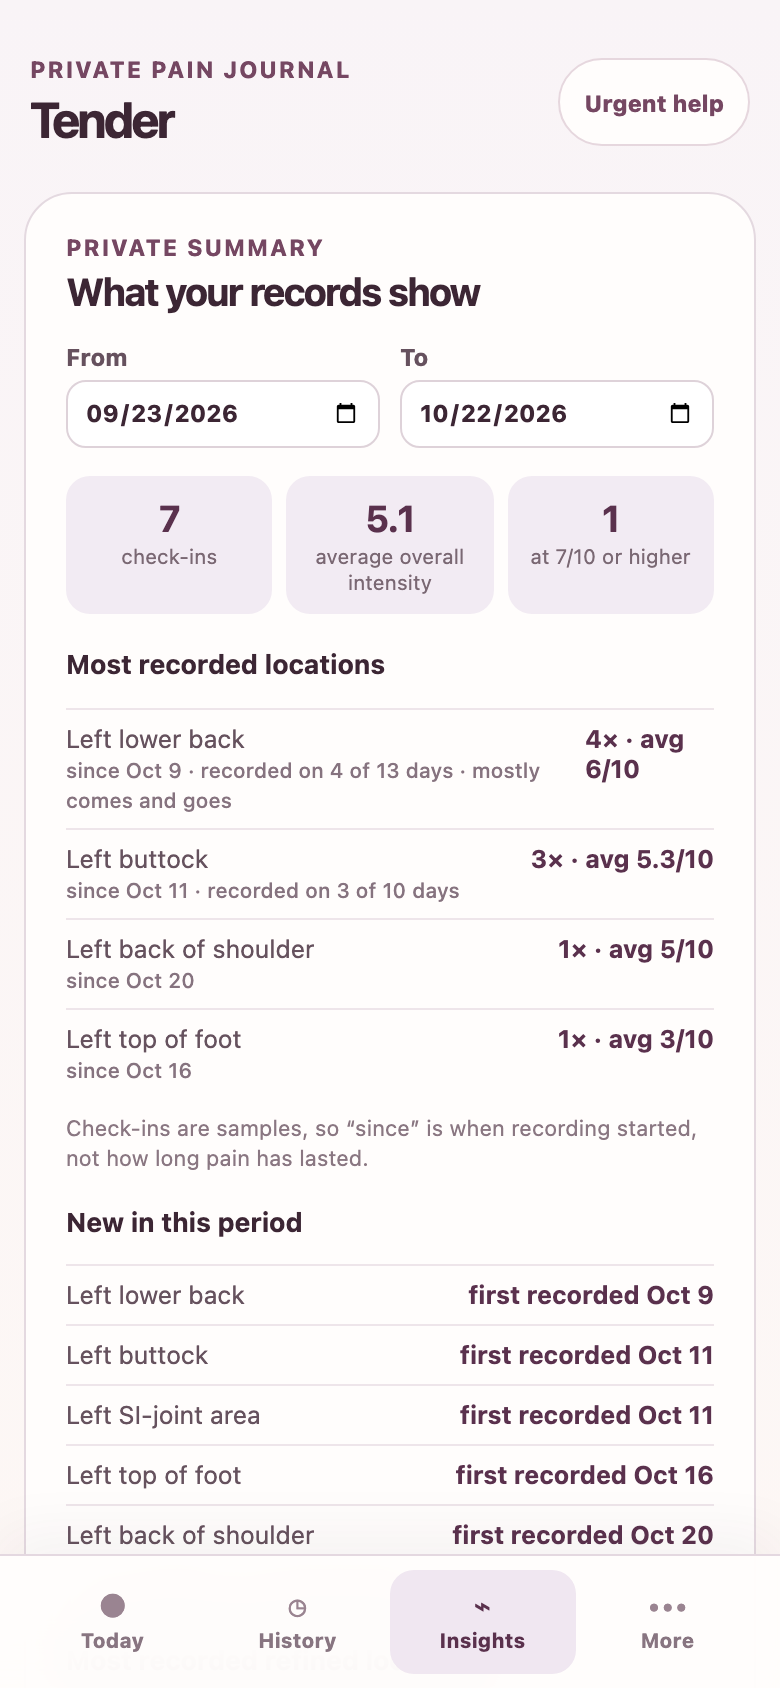
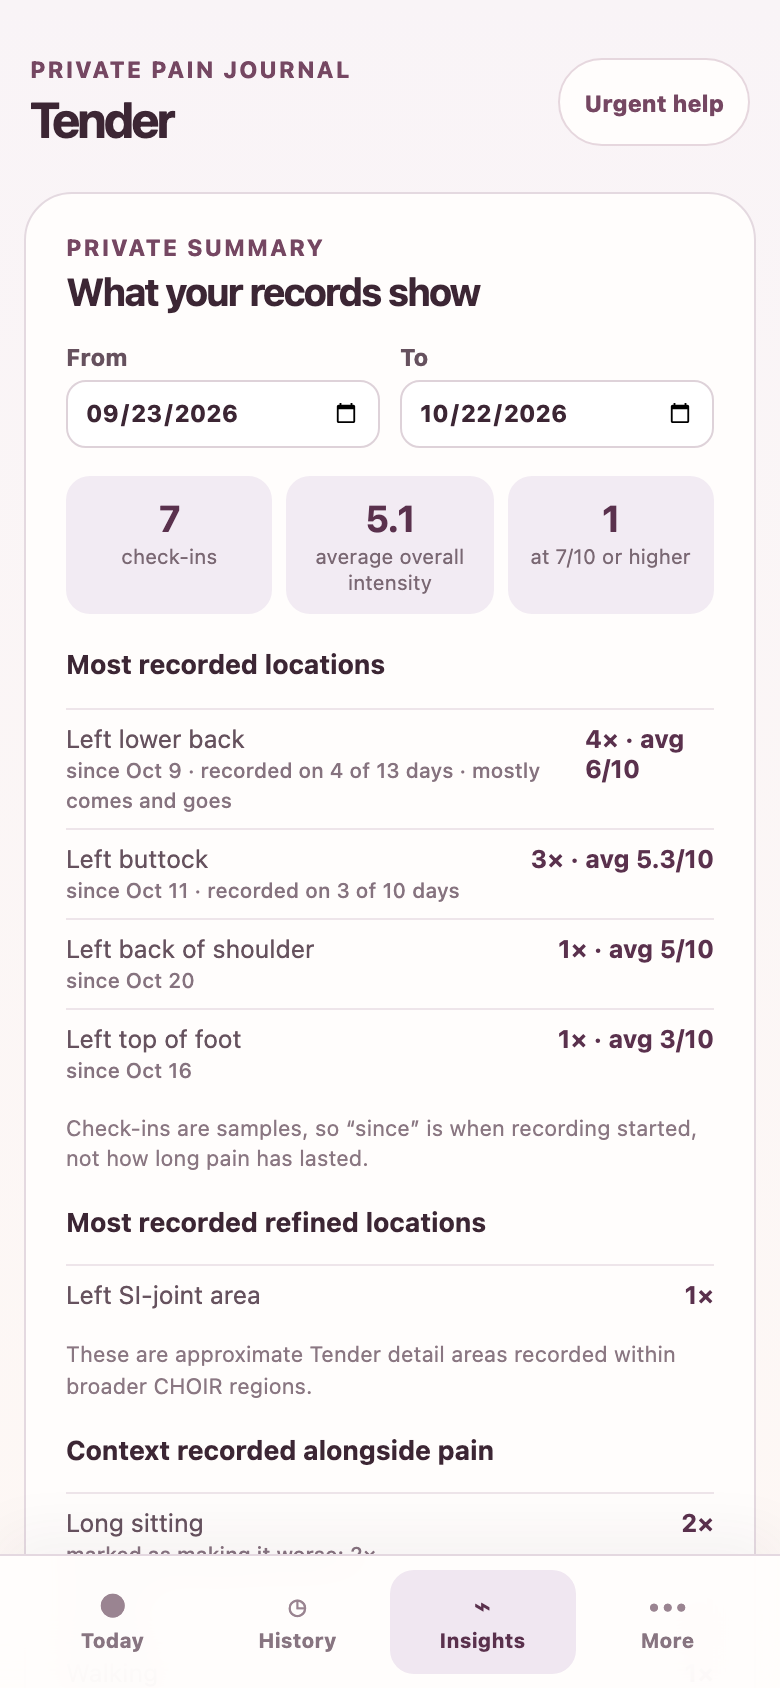
Apply the 3-entry minimum to medication sensations; trim "New in this period"
- treatments[].sensationsOnSameCheckIns is now empty for a medication
  logged on fewer than 3 check-ins (TREATMENT_SENSATIONS_MIN_ENTRIES,
  the association support minimum). Pinned fixture findings: naproxen
  (2) and typical-two-weeks' ibuprofen (1) lose their pairing. Prompt
  example, consent phrase, ADR 0010 and the plan updated.
- Insights hides "New in this period" when every area in the range is
  new (e.g. the first period of data or the seeded demo), and otherwise
  shows 3 areas plus "And N more". The appointment summary keeps the
  full list. README demo step and Insights screenshot updated.

diff --git a/src/features/insights/insights.ts b/src/features/insights/insights.ts
@@ -12,6 +12,8 @@ export const NEW_AREA_LOOKBACK_DAYS = 30;
 /** A run of recordings ends after a gap of more than this many days. */
 export const RUN_GAP_DAYS = 14;
 const DAY_MS = 86_400_000;
+/** Insights lists this many new areas, then "and N more". */
+export const NEW_AREAS_SHOWN = 3;
 
 export type InsightSummary = {
   entries: PainEntry[];
@@ -22,6 +24,8 @@ export type InsightSummary = {
   commonActivities: Array<{ label: string; count: number; worse: number; helped: number }>;
   /** Areas first recorded in this range after at least NEW_AREA_LOOKBACK_DAYS without them. */
   newAreas: Array<{ id: string; label: string; firstRecorded: string }>;
+  /** Every area recorded in the range is new (e.g. the first period of data), so "new" says nothing. */
+  allAreasNew: boolean;
   /** Days with an answer; each day takes its highest recorded level. */
   interference?: { days: number; levels: Record<Interference, number>; areas: Array<{ area: InterferenceArea; days: number }> };
   /** Nights count once per day. "Of" is days with a sleep answer or "Pain woke me". */
@@ -72,6 +76,7 @@ export function buildInsights(entries: PainEntry[], from: string, to: string): I
         helped: value === NO_MARKER_ACTIVITY ? 0 : selected.filter((entry) => entry.context?.activityEffects?.[value] === 'helped').length
       })),
     newAreas: newAreas(entries, selected),
+    allAreasNew: selected.length > 0 && newAreas(entries, selected).length === new Set(selected.flatMap(areaIds)).size,
     interference: interferenceDays(selected),
     painWoke: painWokeNights(selected)
   };
@@ -216,4 +221,10 @@ export function activityMarkers(activity: { worse: number; helped: number }) {
     activity.helped ? `helped: ${activity.helped}×` : undefined
   ].filter(Boolean);
   return parts.join(', ');
+}
+
+/** What Insights shows under "New in this period": nothing when every area is new, else up to NEW_AREAS_SHOWN. */
+export function newAreasForDisplay(summary: Pick<InsightSummary, 'newAreas' | 'allAreasNew'>) {
+  if (summary.allAreasNew || summary.newAreas.length === 0) return null;
+  return { shown: summary.newAreas.slice(0, NEW_AREAS_SHOWN), more: Math.max(0, summary.newAreas.length - NEW_AREAS_SHOWN) };
 }

diff --git a/src/features/insights/InsightsPanel.tsx b/src/features/insights/InsightsPanel.tsx
@@ -2,13 +2,14 @@ import { useMemo, useState } from 'react';
 import type { PainEntry } from '../../shared/data/painEntry';
 import { appointmentReportFilename, buildAppointmentReport } from '../reports/appointmentReport';
 import { interferenceLabels, interferenceOptions } from '../../shared/data/painEntry';
-import { activityMarkers, buildInsights, formatShortDate, regionTiming } from './insights';
+import { activityMarkers, buildInsights, formatShortDate, newAreasForDisplay, regionTiming } from './insights';
 import { AiNarrativePanel } from '../ai-summary/AiNarrativePanel';
 
 export function InsightsPanel({ entries }: { entries: PainEntry[] }) {
   const [from, setFrom] = useState(() => dateDaysAgo(29));
   const [to, setTo] = useState(() => dateDaysAgo(0));
   const summary = useMemo(() => buildInsights(entries, from, to), [entries, from, to]);
+  const newAreas = newAreasForDisplay(summary);
 
   function downloadAppointmentSummary() {
     const report = buildAppointmentReport(summary, from, to);
@@ -49,11 +50,11 @@ export function InsightsPanel({ entries }: { entries: PainEntry[] }) {
               <p>Check-ins are samples, so “since” is when recording started, not how long pain has lasted.</p>
             </div>
           )}
-          {summary.newAreas.length > 0 && (
+          {newAreas && (
             <div className="observation-block">
               <h3>New in this period</h3>
-              <ul>{summary.newAreas.map((area) => <li key={area.id}><span>{area.label}</span><strong>first recorded {formatShortDate(area.firstRecorded)}</strong></li>)}</ul>
-              <p>Not recorded in the 30 days before.</p>
+              <ul>{newAreas.shown.map((area) => <li key={area.id}><span>{area.label}</span><strong>first recorded {formatShortDate(area.firstRecorded)}</strong></li>)}</ul>
+              <p>{newAreas.more > 0 && `And ${newAreas.more} more. `}Not recorded in the 30 days before.</p>
             </div>
           )}
           {summary.commonPrecisionAreas.length > 0 && (

diff --git a/server/providers/instructions.ts b/server/providers/instructions.ts
@@ -22,7 +22,7 @@ Format:
 Language:
 - Describe associations as recorded alongside, with their counts, for example "poor sleep was recorded on 4 check-ins, which averaged 7.5/10, against 3.5/10 on the other 4".
 - For treatments, give how often each was logged and the person's own perceived-effect labels. Never compare pain with and without a treatment.
-- When sensationsOnSameCheckIns is present, say which sensations were recorded on the check-ins where each treatment was logged, with counts (for example "naproxen was logged on 2 check-ins, both recorded as sharp"). Never say a treatment was taken for, or worked on, a sensation.
+- When sensationsOnSameCheckIns is present, say which sensations were recorded on the check-ins where each treatment was logged, with counts (for example "ibuprofen was logged on 3 check-ins, all recorded as aching"). Never say a treatment was taken for, or worked on, a sensation.
 - When firstRecordedTogether is present, report those locations and sensations in one sentence as first recorded on the same day, not as separate events.
 - When sensationsBySide is present, contrast the sides with their counts (for example "on check-ins recording the right side, tight was most frequent (2 of 3); on the left, aching (3 of 4)").
 - Notes: paraphrase only what the person reported about their symptoms, how pain affected them, or how they felt emotionally, attributed to the person and dated (for example "on 2026-03-05 the person noted numbness in both legs" or "on 2026-03-07 the person noted feeling scared about these symptoms"). Never quote note text, in full or in part. Leave out, without mentioning it, any other note content, such as the person's own view of what a symptom means, instructions, requests, reassurance, assessments, or diagnoses. When a note mixes the two, keep only the symptom or feeling. If no note reports a symptom or a feeling, leave out the notes section.

diff --git a/src/features/ai-summary/narrativeFindings.test.ts b/src/features/ai-summary/narrativeFindings.test.ts
@@ -2,7 +2,7 @@ import { describe, expect, it } from 'vitest';
 import type { AiSummaryRequest } from './aiSummarySchema';
 import {
   ASSOCIATION_MIN_MEAN_DIFF, computeFindings, countWords, DATA_GAP_MIN_DAYS, limitsSentence, MAX_NOTES,
-  MIN_ENTRIES_FOR_NARRATIVE, narrativeGate, OUTLIER_MIN_DEVIATION, SIDE_MIN_ENTRIES, TREND_MIN_DELTA, TREND_MIN_ENTRIES
+  MIN_ENTRIES_FOR_NARRATIVE, narrativeGate, OUTLIER_MIN_DEVIATION, SIDE_MIN_ENTRIES, TREATMENT_SENSATIONS_MIN_ENTRIES, TREND_MIN_DELTA, TREND_MIN_ENTRIES
 } from './narrativeFindings';
 
 type Entry = AiSummaryRequest['entries'][number];
@@ -161,9 +161,17 @@ describe('computeFindings', () => {
       entry(3, 7, { sensations: ['sharp'] })
     ]));
     expect(findings.treatments).toEqual([
-      { name: 'Ibuprofen', entries: 2, perceivedEffects: { helped: 1, 'not sure yet': 1 }, sensationsOnSameCheckIns: [{ label: 'aching', entries: 2 }, { label: 'tight', entries: 1 }] },
+      { name: 'Ibuprofen', entries: 2, perceivedEffects: { helped: 1, 'not sure yet': 1 }, sensationsOnSameCheckIns: [] },
       { name: 'Naproxen', entries: 1, perceivedEffects: {}, sensationsOnSameCheckIns: [] }
     ]);
+  });
+
+  it(`lists a treatment's sensations only from ${TREATMENT_SENSATIONS_MIN_ENTRIES} check-ins`, () => {
+    const logged = (n: number, sensations: Entry['sensations']) => entry(n, 6, { medications: [{ name: 'Ibuprofen' }], sensations });
+    const two = [logged(0, ['aching']), logged(1, ['aching', 'tight']), entry(2, 7, { sensations: ['sharp'] })];
+    expect(computeFindings(request(two)).treatments[0].sensationsOnSameCheckIns).toEqual([]);
+    expect(computeFindings(request([...two, logged(3, ['aching'])])).treatments[0].sensationsOnSameCheckIns)
+      .toEqual([{ label: 'aching', entries: 3 }, { label: 'tight', entries: 1 }]);
   });
 
   it('groups locations and sensations first recorded on the same day', () => {

diff --git a/src/features/insights/insights.test.ts b/src/features/insights/insights.test.ts
@@ -1,6 +1,6 @@
 import { describe, expect, it } from 'vitest';
 import type { PainEntry } from '../../shared/data/painEntry';
-import { NEW_AREA_LOOKBACK_DAYS, RUN_GAP_DAYS, buildInsights, regionTiming } from './insights';
+import { NEW_AREA_LOOKBACK_DAYS, NEW_AREAS_SHOWN, RUN_GAP_DAYS, buildInsights, newAreasForDisplay, regionTiming } from './insights';
 
 const base: PainEntry = {
   id: 'one',
@@ -68,6 +68,22 @@ describe('private insights', () => {
       const older = at('2026-06-19', 'older'); // 31 days before
       expect(buildInsights([older, at('2026-07-20', 'now')], '2026-07-20', '2026-07-21').newAreas)
         .toEqual([{ id: 'back-low-left', label: 'Left low back', firstRecorded: '2026-07-20' }]);
+    });
+
+    it('hides "New in this period" when every area is new, otherwise caps it', () => {
+      const firstPeriod = buildInsights([at('2026-07-20', 'a'), at('2026-07-21', 'b', { regions: ['foot-left'] })], '2026-07-20', '2026-07-21');
+      expect(firstPeriod.allAreasNew).toBe(true);
+      expect(newAreasForDisplay(firstPeriod)).toBeNull();
+
+      const fresh = ['foot-left', 'foot-right', 'knee-left', 'knee-right', 'hand-left'];
+      const later = buildInsights([
+        at('2026-07-01', 'old'),
+        at('2026-07-20', 'again'),
+        ...fresh.map((region, index) => at('2026-07-21', `new-${index}`, { regions: [region] }))
+      ], '2026-07-20', '2026-07-21');
+      expect(later.allAreasNew).toBe(false);
+      expect(newAreasForDisplay(later)).toMatchObject({ more: fresh.length - NEW_AREAS_SHOWN });
+      expect(newAreasForDisplay(later)!.shown).toHaveLength(NEW_AREAS_SHOWN);
     });
 
     it('starts "recorded since" after a gap longer than the run gap', () => {

diff --git a/src/features/ai-summary/narrativeFindings.ts b/src/features/ai-summary/narrativeFindings.ts
@@ -31,6 +31,8 @@ export const DATA_GAP_MIN_DAYS = 7;
 export const MAX_NOTES = 20;
 /** Sensations listed per treatment: those logged on the same check-ins (descriptive, not a comparison). */
 export const MAX_TREATMENT_SENSATIONS = 3;
+/** A treatment needs this many check-ins before its sensations are listed (the association support minimum). */
+export const TREATMENT_SENSATIONS_MIN_ENTRIES = ASSOCIATION_MIN_SUPPORT;
 /** Each side needs this many check-ins recording it (the association support minimum). */
 export const SIDE_MIN_ENTRIES = ASSOCIATION_MIN_SUPPORT;
 /** A side's top sensation must be on at least this share of that side's check-ins. */
@@ -71,7 +73,7 @@ export type NarrativeFindings = {
     name: string;
     entries: number;
     perceivedEffects: Record<string, number>;
-    /** Sensations recorded on the check-ins where this treatment was logged. */
+    /** Sensations recorded on the check-ins where this treatment was logged; empty below TREATMENT_SENSATIONS_MIN_ENTRIES. */
     sensationsOnSameCheckIns: Array<{ label: string; entries: number }>;
   }>;
   notes: Array<{ date: string; text: string }>;
@@ -313,7 +315,7 @@ function findTreatments(entries: AiEntry[]): NarrativeFindings['treatments'] {
   return [...byName.values()]
     .map((treatment) => ({
       ...treatment,
-      sensationsOnSameCheckIns: treatment.sensationsOnSameCheckIns
+      sensationsOnSameCheckIns: treatment.entries < TREATMENT_SENSATIONS_MIN_ENTRIES ? [] : treatment.sensationsOnSameCheckIns
         .sort((a, b) => b.entries - a.entries || a.label.localeCompare(b.label))
         .slice(0, MAX_TREATMENT_SENSATIONS)
     }))

diff --git a/eval/narrative/findings.test.ts b/eval/narrative/findings.test.ts
@@ -38,7 +38,7 @@ const yields: Record<string, string[] | string> = {
   'long-gap': ['recurring locations Left buttock 7', 'recurring sensations aching 5', 'first recorded sharp 2026-04-06', 'gap 2026-03-09 to 2026-03-31 (21 days)'],
   medications: [
     'recurring locations Left buttock 6', 'recurring sensations aching 4',
-    'treatment Ibuprofen 3 {"helped":2,"not sure yet":1} with aching 3', 'treatment Naproxen 2 {"no change":2} with sharp 2'
+    'treatment Ibuprofen 3 {"helped":2,"not sure yet":1} with aching 3', 'treatment Naproxen 2 {"no change":2} with none'
   ],
   'precision-areas': [
     'recurring locations Left SI-joint area 3', 'first recorded Right lower back 2026-03-07', 'first recorded Tailbone area 2026-03-07',
@@ -52,7 +52,7 @@ const yields: Record<string, string[] | string> = {
   'two-entries': 'too-few-entries',
   'typical-two-weeks': [
     'association location:Left back hip 4 at 6.5 vs 4.3', 'recurring locations Left lower back 7, Left back hip 4', 'recurring sensations aching 6',
-    'treatment Ibuprofen 1 {"helped":1} with tight 1'
+    'treatment Ibuprofen 1 {"helped":1} with none'
   ],
   'worrying-notes': ['recurring locations Left lower back 4', 'recurring sensations aching 3', 'first recorded tingling 2026-03-12', 'notes 2']
 };

diff --git a/src/features/ai-summary/consentFields.ts b/src/features/ai-summary/consentFields.ts
@@ -47,7 +47,7 @@ export const FINDINGS_FIELD_CONSENT = {
   firstRecordedTogether: 'locations and sensations first recorded on the same day',
   sensationsBySide: 'the most frequent sensation on left- and right-side check-ins, when they differ',
   gaps: 'gaps between check-ins',
-  treatments: 'how often each medication was logged, with its perceived effects and the sensations on those check-ins',
+  treatments: 'how often each medication was logged, with its perceived effects and, from 3 check-ins, the sensations on them',
   notes: 'your note text with its date',
   omittedNotes: 'how many older notes were left out'
 } satisfies Record<keyof NarrativeFindings, string>;

diff --git a/README.md b/README.md
@@ -18,7 +18,7 @@ The demo seeds seven sample check-ins on first visit (two weeks of lower-back an
 1. **Today (10 s).** The sample banner, your most recent check-in, and **Repeat last**.
 2. **Check in (20 s).** Tap **New check-in**, tap the lower back on the body map, drag the intensity slider, then **Save check-in**. That's the whole basic path. Open **Add context** to see the optional fields: sensations, activities with your own made-worse / helped marker, "Did pain get in the way today?", steady or comes-and-goes, "Pain woke me", and medication.
 3. **History (10 s).** Open a check-in to see everything it recorded, with edit and confirmed delete.
-4. **Insights (30 s).** Most recorded locations with when recording started ("since … · recorded on 4 of 13 days"), areas new in the period, activity markers, days pain got in the way, and nights pain woke you. Tap **Download appointment summary** for the plain-text report.
+4. **Insights (30 s).** Most recorded locations with when recording started ("since … · recorded on 4 of 13 days"), activity markers, days pain got in the way, and nights pain woke you. Tap **Download appointment summary** for the plain-text report.
 5. **AI narrative (20 s).** At the bottom of Insights, open **What exactly is sent**, tick the consent box, and choose **Generate narrative**. Without a demo access code you get a clearly labeled, pre-written sample; **live AI is available on request**.
 
 **Clear sample data** on Today removes the samples for good.
@@ -52,7 +52,7 @@ The narrative had to earn its place, so before any change shipped it was measure
 Scores compare matched fixtures only: 11 for usefulness and coverage, 10 for the rest.
 
 - **The coverage exception.** The rule allowed coverage to fall by at most 0.3. It fell by 0.36, mostly because the model now points out what stands out instead of restating every check-in, and because associations need at least 3 supporting check-ins. The product owner shipped anyway, with a dated, recorded exception: usefulness and readability rose, faithfulness held, and every hard check passed. Live AI also stays behind a demo access code.
-- **v3 (this iteration)** adds findings aimed at what the coverage review found missing: which sensations were recorded with each medication, labels first recorded on the same day, and sensations that differ by body side. It also adds an optional "Questions this record raises" section (at most 2 questions, only about gaps in the data). v3 passed 39 of 39 hard checks. Its first run flagged one failure, which turned out to be a checker bug (a date read as a rating); the checker was fixed and the run repeated. v3 has not been rescored by hand.
+- **v3 (this iteration)** adds findings aimed at what the coverage review found missing: which sensations were recorded with each medication (once it is logged on 3 or more check-ins), labels first recorded on the same day, and sensations that differ by body side. It also adds an optional "Questions this record raises" section (at most 2 questions, only about gaps in the data). v3 passed 39 of 39 hard checks. Its first run flagged one failure, which turned out to be a checker bug (a date read as a rating); the checker was fixed and the run repeated. v3 has not been rescored by hand.
 
 The full method, results, and decisions are in [`docs/plans/narrative-eval.md`](docs/plans/narrative-eval.md) and [`docs/plans/narrative-v2.md`](docs/plans/narrative-v2.md). The harness is `npm run eval:narrative`.
 

diff --git a/docs/plans/narrative-v2.md b/docs/plans/narrative-v2.md
@@ -760,10 +760,13 @@ minimum and the no-restating rule are unchanged.
 - **`treatments[].sensationsOnSameCheckIns`**: the sensations recorded on
   the check-ins where each medication was logged, with counts (top 3).
   Descriptive only: it compares no ratings, so it is not an association
-  and medications are still never association factors. It is listed for
-  every logged treatment, as treatments already are (naproxen is on 2
-  check-ins in the medications fixture). The prompt forbids saying a
-  treatment was taken for, or worked on, a sensation.
+  and medications are still never association factors. Listed only for a
+  treatment logged on at least 3 check-ins
+  (`TREATMENT_SENSATIONS_MIN_ENTRIES`, the association support minimum;
+  product-owner decision, 2026-10-22, after the v3 run). In the
+  medications fixture that keeps ibuprofen with aching (3 of 3) and drops
+  naproxen (2 check-ins). The prompt forbids saying a treatment was taken
+  for, or worked on, a sensation.
 - **`firstRecordedTogether`**: locations and sensations first recorded
   in range on the same date, when there are 2 or more, so the narrative
   reports them in one sentence (precision-areas: Right lower back,
@@ -826,7 +829,8 @@ rescored (product-owner decision); the automatic checks decide.
   since sensations are recorded per check-in. Some use "- " bullets for
   2 questions, against the 3-item bullet rule; not flagged.
 - **Coverage findings in use:** medications names ibuprofen with aching
-  (3 of 3) and naproxen with sharp (2 of 2); precision-areas reports the
+  (3 of 3) and naproxen with sharp (2 of 2; naproxen's pairing was later
+  dropped by the 3-check-in minimum, not re-run); precision-areas reports the
   2026-03-07 firsts in one sentence and contrasts left aching (3 of 4)
   with right tight (2 of 3).
 

diff --git a/docs/plans/check-in-gaps.md b/docs/plans/check-in-gaps.md
@@ -473,7 +473,11 @@ the check-in and Insights flows.
   entries and for backups; version 1 entries and backups still load.
 - **"New in this period"** uses the new-area rule (no recording of that
   area in the previous 30 days), for CHOIR regions and precision areas.
-  On a fresh journal every area is "new", which is accurate.
+  Insights hides the block when every area in the range is new (for
+  example the first period of data, or the seeded demo), and otherwise
+  shows 3 areas plus "And N more" (`NEW_AREAS_SHOWN`; product-owner
+  decision, 2026-10-22). The appointment summary still lists every new
+  area.
 - **"Recorded since"** shows "since Oct 3 · recorded on 9 of 15 days",
   where the span runs from the start of the current run to the latest
   recording on or before the range end. A caption says check-ins are

diff --git a/docs/decisions/0010-narrative-findings-payload.md b/docs/decisions/0010-narrative-findings-payload.md
@@ -26,7 +26,8 @@ output ceiling. See `docs/plans/narrative-v2.md`.
   perceived-effect labels, and notes with their date. Thresholds are named
   constants, tested at their boundaries.
 - **v3 (2026-10-22): three more derived findings**, from fields already
-  sent: the sensations on the check-ins where each medication was logged,
+  sent: the sensations on the check-ins where each medication was logged
+  (only for a medication on 3+ check-ins),
   locations and sensations first recorded on the same day, and the most
   frequent sensation per body side when the sides differ (each side needs
   3+ check-ins). No new raw data reaches the provider; the consent copy
